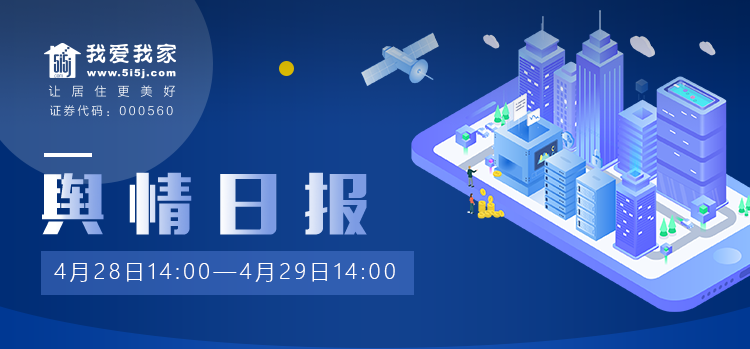
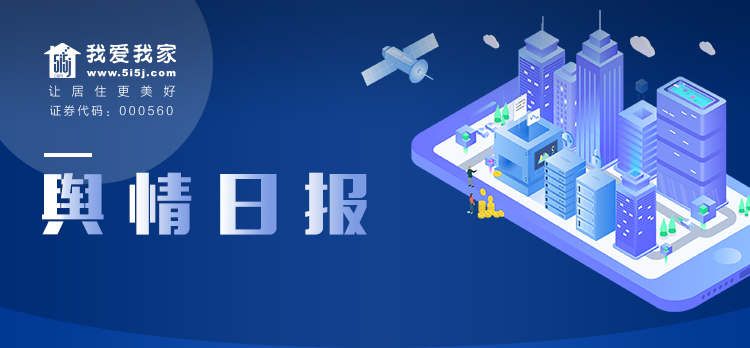
Add files via upload

diff --git a/ec/index.html b/ec/index.html
@@ -8,7 +8,7 @@
 		<link rel="stylesheet" href="css/bootstrap.js" />
 		<style>
 			body{ margin: 0; padding: 0; }
-			.banner{ width: 100%;  }
+			.banner{ width: 100%;  position: relative; }
 			.banner>img{ display: block;}
 			.container-fluid{background-image: url(img/j1.png);  background-size: 100%;}
 			.bs{  border-radius: 5px; background-color: #fff; color: #666;  margin-bottom: 50px;}
@@ -34,11 +34,13 @@
 			.gg{padding: 0 25px ;  font-size: 14px; margin-bottom: 20px;}
 			.ee .fang a{ font-size: 14px;}
 			.quan{width: 100px; top:380px;  right: 0; height: 100px; border-radius: 150px; background: rgba(255,255,255,.4); position: absolute;}
+			.sj{ width: 30%; line-height: 30px; background: rgba(255,255,255,0.4); position: absolute; bottom:100px; left: 5%;padding-left: 10px;font-size: 20px; color: #fff;}
 		</style>
 	</head>
 	<body>
 		<div class="banner">
 			<img src="img/1.png" width="100%" alt="" />
+			<div class="sj">4月28日14：00——4月29日14：00</div>
 		</div>
 		<div class="container-fluid">
 		  <div class="row">
@@ -135,6 +137,16 @@
 		    	<p class="gg">带一路绽放功夫画带一路绽放功夫画带一路绽放功夫画带一路绽放功夫画带一路绽放功夫画带一路绽放功夫画带一路绽放功夫画带一路绽放功夫画带一路绽放功夫画带一路绽放功夫画带一路绽放功夫画带一路绽放功夫画</p>
 		    	<p class="fang"><a href="#">中国经济网2019年一带一路</a></p>
 		    	<p class="gg">带一路绽放功夫画带一路绽放功夫画带一路绽放功夫画带一路绽放功夫画带一路绽放功夫画带一路绽放功夫画带一路绽放功夫画带一路绽放功夫画带一路绽放功夫画带一路绽放功夫画带一路绽放功夫画带一路绽放功夫画</p>
+		    	
+		    	<div><img src="img/21.png" height="40px" alt="" /></div>
+		    	<div><img src="img/58.png" height="30px" alt="" /></div>
+		    	<div><img src="img/ajk.png" height="30px" alt="" /></div>
+		    	<div><img src="img/bk.png" height="30px" alt="" /></div>
+		    	<div><img src="img/lj.png" height="40px" alt="" /></div>
+		    	<div><img src="img/dk.png" height="41px" alt="" /></div>
+		    	<div><img src="img/mt.jpg" height="40px" alt="" /></div>
+		    	<div><img src="img/zr.jpg" height="40px" alt="" /></div>
+		    	<div><img src="img/zy.jpg" height="40px" alt="" /></div>
 			</div>
 		    
 		    
@@ -142,15 +154,24 @@
 		<script>
 		    			
 		    			function jk(){
+		    			var banner = document.querySelector(".banner")
+		    			var sj = document.querySelector(".sj")
 						var bs = document.querySelectorAll(".bs")
 		    			var fonts = document.querySelectorAll(".fonts")
 		    			var op = document.querySelectorAll(".fonts>img")
+		    			var lep = banner.clientHeight/10
+		    			var lhp = banner.clientWidth/40
+		    			sj.style.lineHeight=lhp*2+"px"
+		    			sj.style.bottom=lep*1.5+"px"
+		    			sj.style.width=lhp*20+"px"
+		    			sj.style.fontSize=lhp+"px"
+		    			
 		    			for(var i = 0; i<op.length;i++){
 		    			var ce=op[i].clientHeight;
 		    			bs[i].style.paddingTop=(ce/2)+10+"px"
 		    			bs[i].style.paddingBottom=(ce/2)+10+"px"
 		    			fonts[i].style.top=-(ce/2) + "px"
-		    			console.log(ce)
+		    			
 		    			}}
 		    			setTimeout("jk()",100)
 					setInterval(jk,1000)
